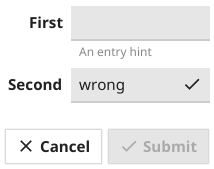
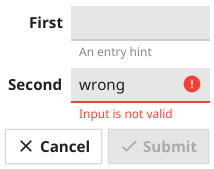
Correct initial state of entry if we have pre-set invalid text
Always verrify text if set before showing

Changed region(s): [[0.3364, 0.5917, 0.9813, 0.7101], [0.8411, 0.4438, 0.9533, 0.5621]]

diff --git a/widget/entry.go b/widget/entry.go
@@ -1199,6 +1199,10 @@ func (r *entryRenderer) ensureValidationSetup() {
 		r.entry.validationStatus = newValidationStatus(r.entry)
 		r.objects = append(r.objects, r.entry.validationStatus)
 		r.Layout(r.entry.size)
+
+		if r.entry.Text != "" {
+			r.entry.Validate()
+		}
 		r.Refresh()
 	}
 }
